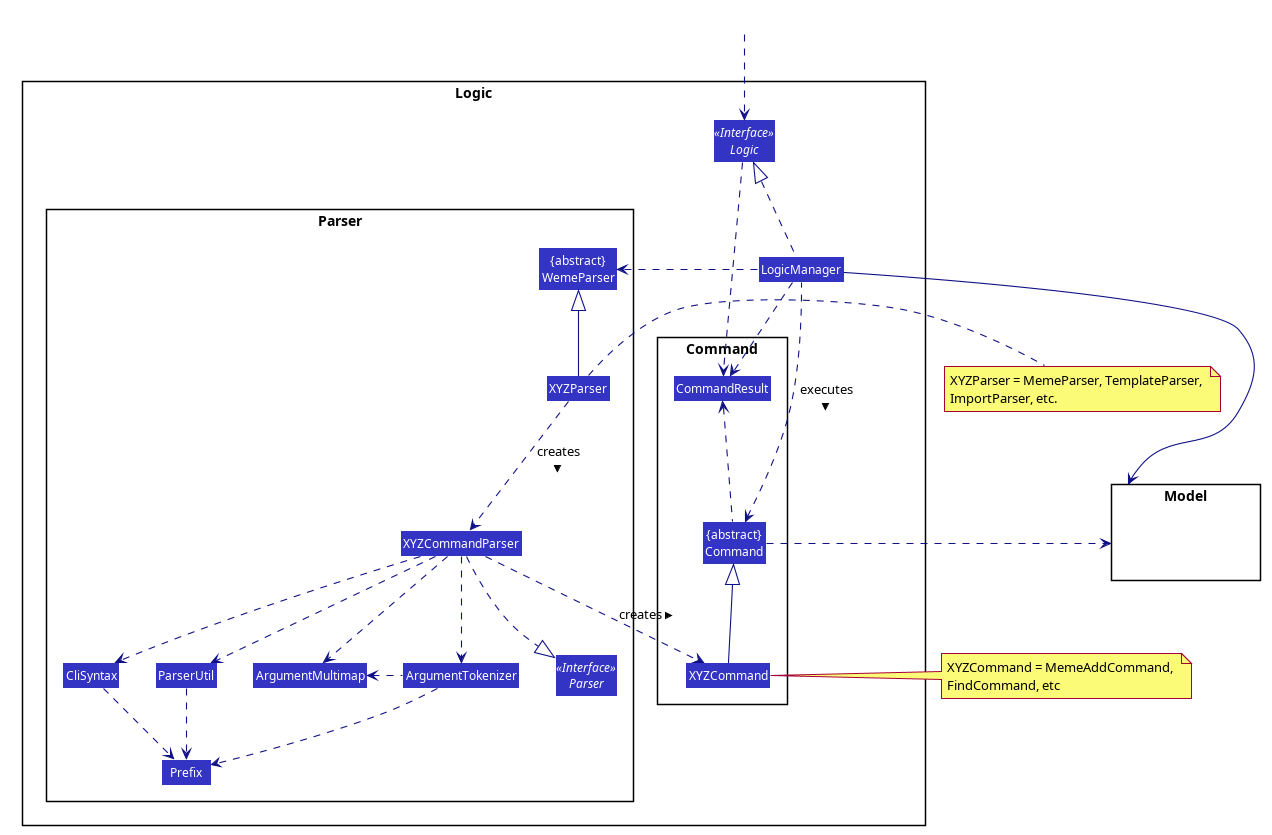
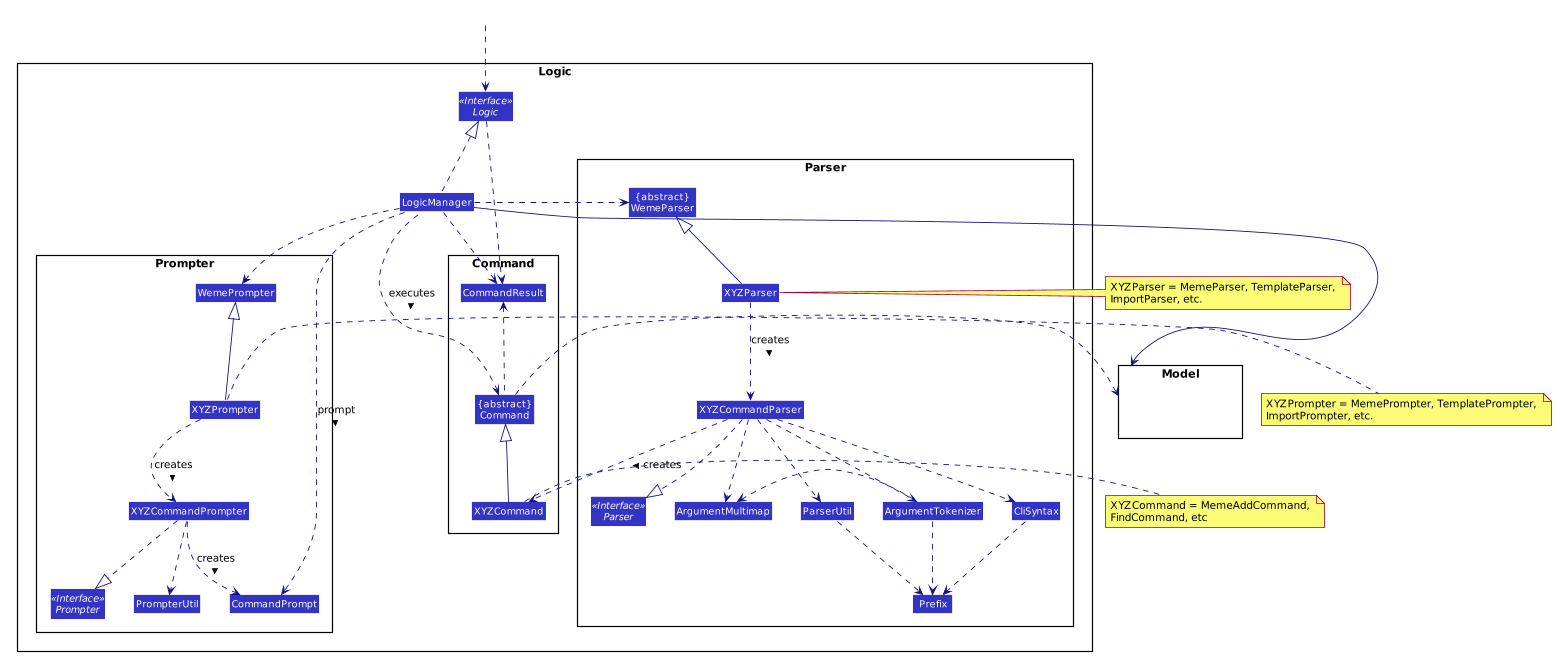
Rebuild pages at 10547192c3dc1fc892de787bb3cdb80a7b4b63ef

diff --git a/DeveloperGuide.html b/DeveloperGuide.html
@@ -1255,16 +1255,58 @@ replace the current command word/argument in user input.</p>
 <div class="sect3">
 <h4 id="current-implementation-6"><a class="link" href="#current-implementation-6">3.6.1. Current Implementation</a></h4>
 <div class="paragraph">
-<p>The command suggestions is achieved using a package of prompter files.
+<p>The command suggestion is achieved using a package of prompter files.
 For each parser, there will a corresponding prompter to process the current user input and return the <code>CommandPrompt</code> for display in <code>ResultBox</code>.
-Step 1. The user types commands into the <code>CommandBox</code>.
-Step 2. The <code>MainWindow</code> listens to changes in the content in <code>CommandBox</code> and direct the input to <code>WemePrompter</code>.
-Step 3. Depending on the context, the prompter that implements <code>WemePrompter</code> (e.g. <code>MemePrompter</code>) will then pass the arguments
-to different <code>Prompter</code> (e.g. <code>MemeAddCommandPrompter</code>) based on the command word.
-Step 4: The <code>Prompter</code> will process the input and return a <code>CommandPrompt</code> containing the command suggestion, and the
-complete text for auto-completion for the given input.
-Step 5: The prompt will be passed to and displayed by <code>ResultBox</code>.
-Step 6: The <code>CommandBox</code> listens to the "TAB" key press, and replace the current argument with the first command prompt.</p>
+The following class diagram summarizes the Prompter package in the Logic.</p>
+</div>
+<div class="imageblock">
+<div class="content">
+<img src="images/CommandPromptClassDiagram.png" alt="CommandPromptClassDiagram">
+</div>
+<div class="title">Figure 11. Partial Class Diagram of the Logic Component related Prompter package</div>
+</div>
+<div class="paragraph">
+<p>The following Sequence Diagram summarizes the how a <code>CommandPrompt</code> is generated:</p>
+</div>
+<div class="imageblock">
+<div class="content">
+<img src="images/CommandPromptSequenceDiagram.png" alt="CommandPromptSequenceDiagram">
+</div>
+</div>
+<div class="paragraph">
+<p>Here is how a user interact with the command suggestion features:</p>
+</div>
+<div class="paragraph">
+<p>Step 1. The user types commands into the <code>CommandBox</code>.</p>
+</div>
+<div class="paragraph">
+<p>Step 2. The <code>MainWindow</code> listens to changes in the content in <code>CommandBox</code> and direct the input to <code>WemePrompter</code>.</p>
+</div>
+<div class="paragraph">
+<p>Step 3. Depending on the context, the prompter that implements <code>WemePrompter</code> (e.g. <code>MemePrompter</code>) will then pass the arguments</p>
+</div>
+<div class="paragraph">
+<p>to different <code>Prompter</code> (e.g. <code>MemeAddCommandPrompter</code>) based on the command word.</p>
+</div>
+<div class="paragraph">
+<p>Step 4. The <code>Prompter</code> will process the input and return a <code>CommandPrompt</code> containing the command suggestion, and the</p>
+</div>
+<div class="paragraph">
+<p>complete text for auto-completion for the given input.</p>
+</div>
+<div class="paragraph">
+<p>Step 5. The prompt will be passed to and displayed by <code>ResultBox</code>.</p>
+</div>
+<div class="paragraph">
+<p>Step 6. The <code>CommandBox</code> listens to the "TAB" key press, and replace the current argument with the first command prompt.</p>
+</div>
+<div class="paragraph">
+<p>The following Activity Diagram summarizes the command suggestion process:</p>
+</div>
+<div class="imageblock">
+<div class="content">
+<img src="images/CommandPromptActivityDiagram.png" alt="CommandPromptActivityDiagram">
+</div>
 </div>
 </div>
 <div class="sect3">
@@ -2260,4 +2302,4 @@ Expected: Similar to previous.</p>
 </div>
 </div>
 </div>
-</div></div><div id="footer"><div class="container"><div id="footer-text">Last updated 2019-11-06 15:28:46 UTC</div></div></div></body></html>
+</div></div><div id="footer"><div class="container"><div id="footer-text">Last updated 2019-11-06 15:34:37 UTC</div></div></div></body></html>

diff --git a/tutorials/RemovingFields.html b/tutorials/RemovingFields.html
@@ -175,4 +175,4 @@ While keeping the <code>address</code> field in the json files does not cause th
 <p>You can go through each individual <code>json</code> file and manually remove the <code>address</code> field.</p>
 </div>
 </div>
-</div></div><div id="footer"><div class="container"><div id="footer-text">Last updated 2019-11-06 15:28:46 UTC</div></div></div></body></html>
+</div></div><div id="footer"><div class="container"><div id="footer-text">Last updated 2019-11-06 15:34:37 UTC</div></div></div></body></html>

diff --git a/tutorials/AddRemark.html b/tutorials/AddRemark.html
@@ -616,4 +616,4 @@ In this case, <code>CommandTestUtil#assertCommandSuccess</code> is the best fit 
 <p>This concludes the tutorial for adding a new <code>Command</code> to AddressBook.</p>
 </div>
 </div>
-</div></div><div id="footer"><div class="container"><div id="footer-text">Last updated 2019-11-06 15:28:46 UTC</div></div></div></body></html>
+</div></div><div id="footer"><div class="container"><div id="footer-text">Last updated 2019-11-06 15:34:37 UTC</div></div></div></body></html>

diff --git a/Testing.html b/Testing.html
@@ -90,4 +90,4 @@ e.g. <code>seedu.weme.logic.LogicManagerTest</code></p>
 <div class="title">Figure 1. <code>Accessibility</code> permission is granted to <code>IntelliJ IDEA</code></div>
 </div>
 </div>
-</div></div><div id="footer"><div class="container"><div id="footer-text">Last updated 2019-11-06 15:28:46 UTC</div></div></div></body></html>
+</div></div><div id="footer"><div class="container"><div id="footer-text">Last updated 2019-11-06 15:34:37 UTC</div></div></div></body></html>

diff --git a/team/cutieprobe.html b/team/cutieprobe.html
@@ -574,4 +574,4 @@ If the <code>stateIndex</code> is at index <code>versionedWemeStates.size() - 1<
 <p><em>{Optionally, you may include other projects in your portfolio.}</em></p>
 </div>
 </div>
-</div></div><div id="footer"><div class="container"><div id="footer-text">Last updated 2019-11-06 15:28:46 UTC</div></div></div></body></html>
+</div></div><div id="footer"><div class="container"><div id="footer-text">Last updated 2019-11-06 15:34:37 UTC</div></div></div></body></html>

diff --git a/team/gary-lgy.html b/team/gary-lgy.html
@@ -574,4 +574,4 @@ If the <code>stateIndex</code> is at index <code>versionedWemeStates.size() - 1<
 <p><em>{Optionally, you may include other projects in your portfolio.}</em></p>
 </div>
 </div>
-</div></div><div id="footer"><div class="container"><div id="footer-text">Last updated 2019-11-06 15:28:46 UTC</div></div></div></body></html>
+</div></div><div id="footer"><div class="container"><div id="footer-text">Last updated 2019-11-06 15:34:37 UTC</div></div></div></body></html>

diff --git a/ContactUs.html b/ContactUs.html
@@ -12,4 +12,4 @@
 <p><strong>Email us</strong> : You can also reach us at <code>cs2103t163@gmail.com</code></p>
 </li>
 </ul>
-</div></div><div id="footer"><div class="container"><div id="footer-text">Last updated 2019-11-06 15:28:46 UTC</div></div></div></body></html>
+</div></div><div id="footer"><div class="container"><div id="footer-text">Last updated 2019-11-06 15:34:37 UTC</div></div></div></body></html>

diff --git a/UserGuide.html b/UserGuide.html
@@ -1096,4 +1096,4 @@ e.g. <code>add p//Users/Me/Downloads/dgirl_oof.jpg d/Disaster Girl t/Funny</code
 </ul>
 </div>
 </div>
-</div></div><div id="footer"><div class="container"><div id="footer-text">Last updated 2019-11-06 15:28:46 UTC</div></div></div></body></html>
+</div></div><div id="footer"><div class="container"><div id="footer-text">Last updated 2019-11-06 15:34:37 UTC</div></div></div></body></html>

diff --git a/LearningOutcomes.html b/LearningOutcomes.html
@@ -474,4 +474,4 @@ of storages, but different number of storages (e.g. save to both a text file and
 </div>
 </div>
 </div>
-</div></div><div id="footer"><div class="container"><div id="footer-text">Last updated 2019-11-06 15:28:46 UTC</div></div></div></body></html>
+</div></div><div id="footer"><div class="container"><div id="footer-text">Last updated 2019-11-06 15:34:37 UTC</div></div></div></body></html>

diff --git a/SettingUp.html b/SettingUp.html
@@ -180,4 +180,4 @@ Having both Travis and AppVeyor ensures your App works on both Unix-based platfo
 </div>
 </div>
 </div>
-</div></div><div id="footer"><div class="container"><div id="footer-text">Last updated 2019-11-06 15:28:46 UTC</div></div></div></body></html>
+</div></div><div id="footer"><div class="container"><div id="footer-text">Last updated 2019-11-06 15:34:37 UTC</div></div></div></body></html>

diff --git a/team/jonchan51.html b/team/jonchan51.html
@@ -578,4 +578,4 @@ If the <code>stateIndex</code> is at index <code>versionedWemeStates.size() - 1<
 </div>
 </div>
 </div>
-</div></div><div id="footer"><div class="container"><div id="footer-text">Last updated 2019-11-06 15:28:46 UTC</div></div></div></body></html>
+</div></div><div id="footer"><div class="container"><div id="footer-text">Last updated 2019-11-06 15:34:37 UTC</div></div></div></body></html>

diff --git a/UsingCoveralls.html b/UsingCoveralls.html
@@ -111,4 +111,4 @@ If you have not set up Travis CI, see <a href="UsingTravis.html">UsingTravis.ado
 </ol>
 </div>
 </div>
-</div></div><div id="footer"><div class="container"><div id="footer-text">Last updated 2019-11-06 15:28:46 UTC</div></div></div></body></html>
+</div></div><div id="footer"><div class="container"><div id="footer-text">Last updated 2019-11-06 15:34:37 UTC</div></div></div></body></html>
